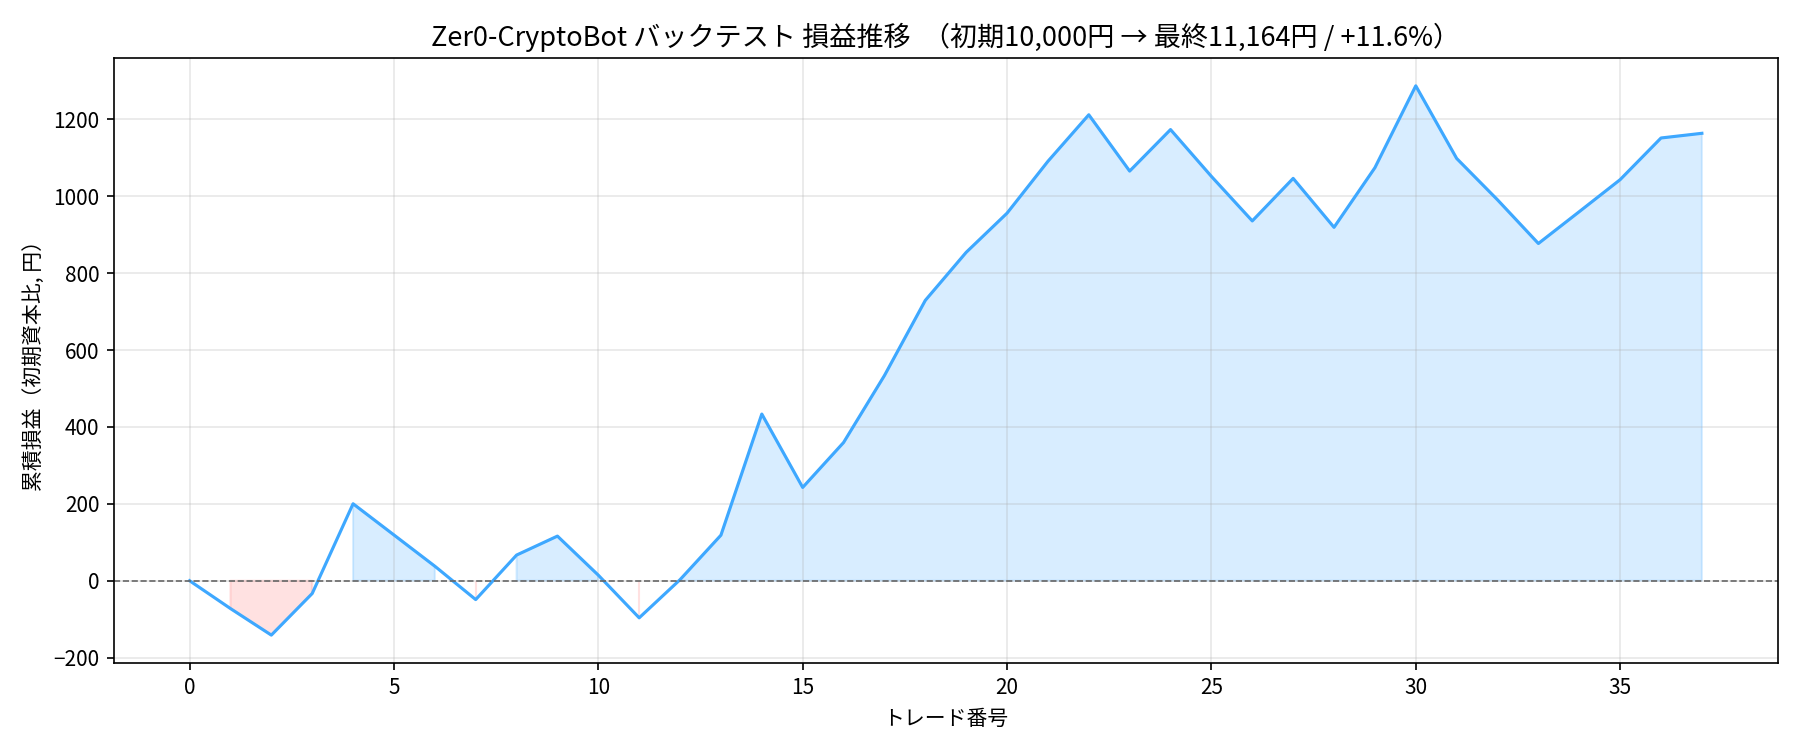
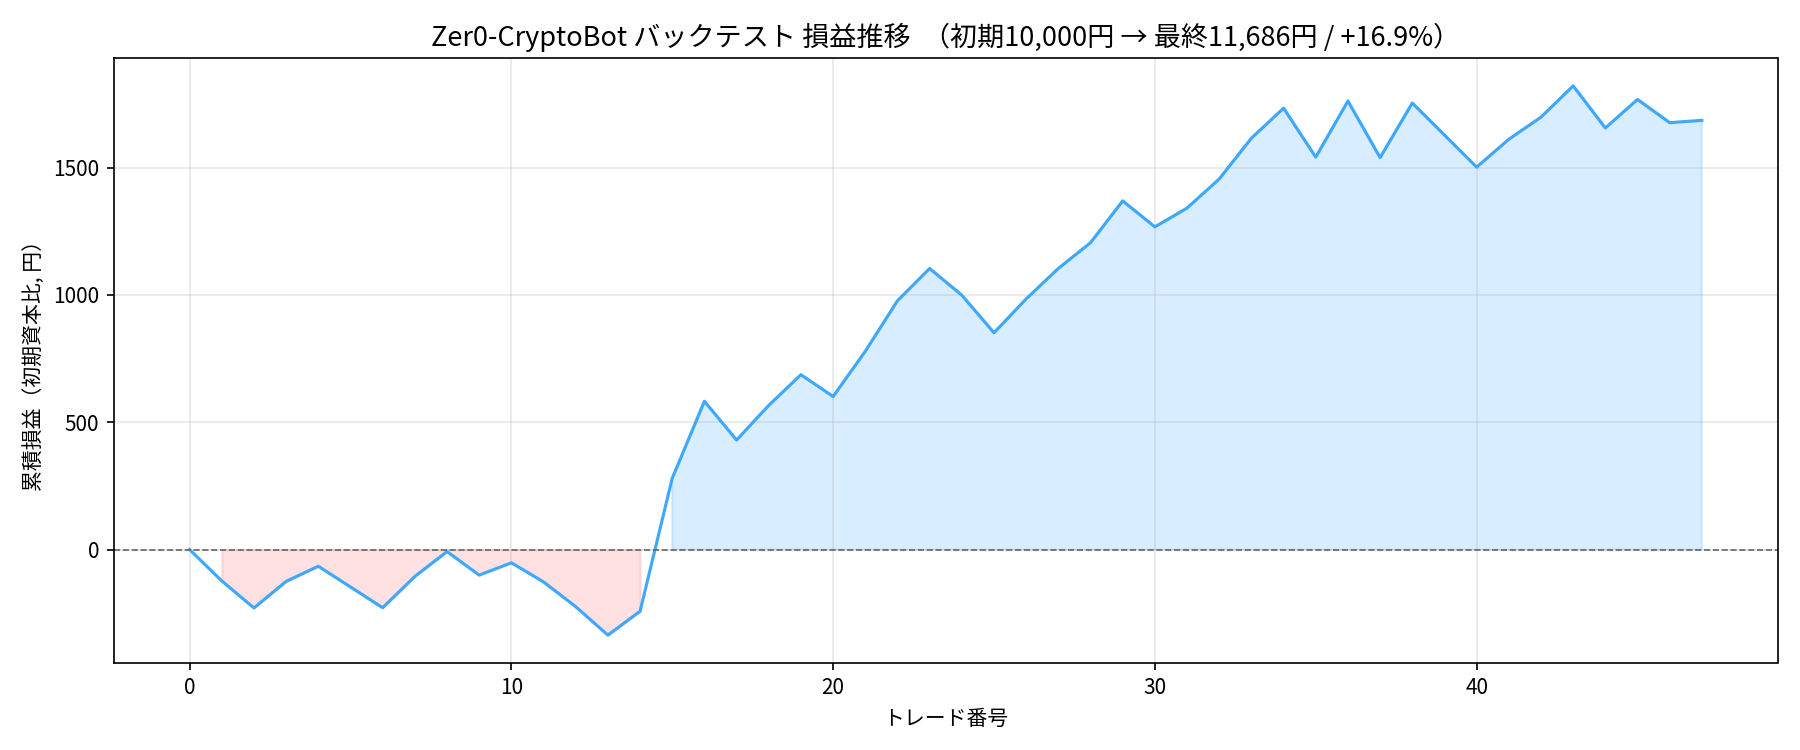
auto-sync: 2026-04-24 16:23

diff --git a/006_zer0-cryptobot/backtest/backtest.py b/006_zer0-cryptobot/backtest/backtest.py
@@ -32,8 +32,8 @@ YEARS       = 2
 MAX_CANDLES = YEARS * 365 * 6       # 4h足で1日6本 → 2年=4380本
 BINANCE_MAX = 1000                  # 1リクエストあたりの最大本数
 EMA_PERIOD  = 200
-ATR_PERIOD  = 10
-ST_MULT     = 3
+ATR_PERIOD  = 8
+ST_MULT     = 2.5
 VOL_PERIOD      = 20
 INITIAL_CAPITAL = 10000.0   # 初期資本（単位: 円換算の仮想値）
 POSITION_RATIO  = 0.90      # 使用率: 資本 × 90% を MAX_POSITIONS で均等割り

diff --git a/006_zer0-cryptobot/lambda/analyzer/lambda_function.py b/006_zer0-cryptobot/lambda/analyzer/lambda_function.py
@@ -20,8 +20,8 @@ BTC_SYMBOL     = "BTCUSDT"
 INTERVAL       = "4h"
 KLINES_LIMIT   = 200      # 200EMA 計算に必要な本数
 EMA_PERIOD     = 200
-ATR_PERIOD     = 10
-ST_MULT        = 3.0
+ATR_PERIOD     = 8
+ST_MULT        = 2.5
 VOL_PERIOD     = 20
 
 PAIRS = {
